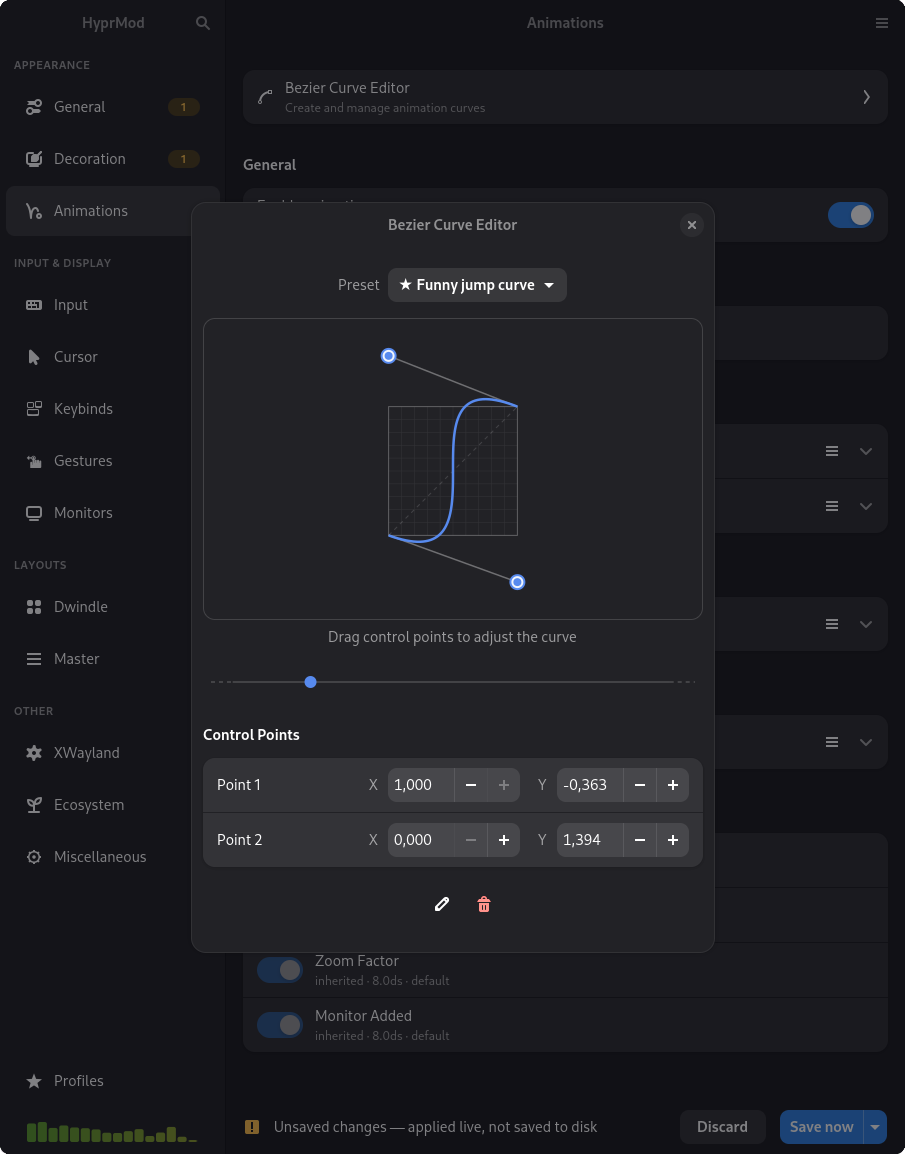
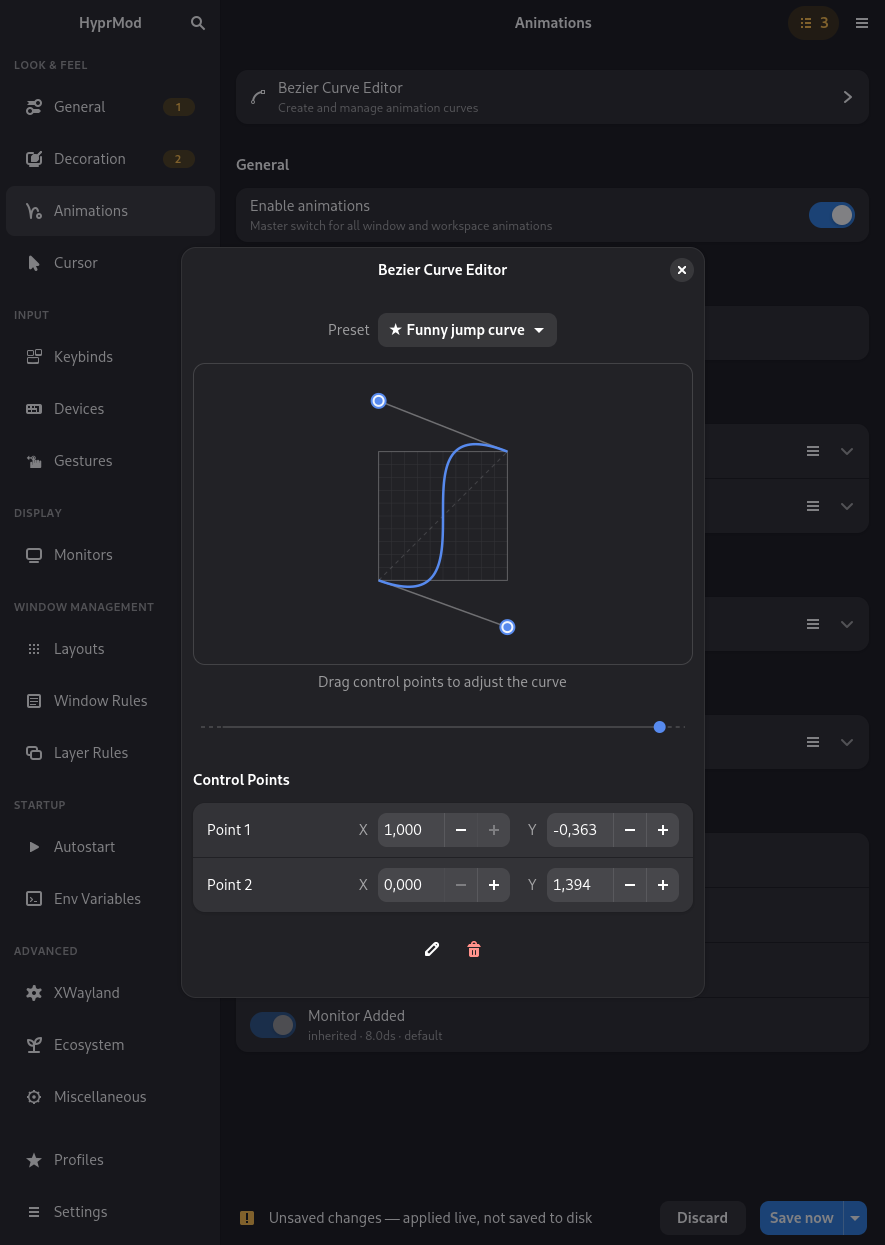
Release v0.2.0

diff --git a/CHANGELOG.md b/CHANGELOG.md
@@ -5,6 +5,30 @@ All notable changes to HyprMod will be documented in this file.
 The format is based on [Keep a Changelog](https://keepachangelog.com/en/1.1.0/),
 and this project adheres to [Semantic Versioning](https://semver.org/spec/v2.0.0.html).
 
+## [0.2.0] - 2026-05-07
+
+### Added
+
+- Window Rules page — manage `windowrule` entries with a window picker, curated action dropdown, and live preview
+- Layer Rules page — manage `layerrule` entries with curated presets and live preview
+- Autostart page — manage `exec` and `exec-once` entries with an app picker
+- Env Variables page — manage `env` entries with POSIX name validation
+- Pending Changes page — review every unsaved edit across the app in one place
+- Mouse-drag (`bindm`) keybinds with dispatcher, category, and preset support (#20)
+- Profile cards show the last-modified date alongside the option count
+
+### Changed
+
+- Sidebar reorganized by task
+- Dwindle, Master, and Scrolling merged into a single Layouts page
+- Profiles page redesigned — active profile promoted to a hero card with the saved-profiles list below
+- Saving keeps the active profile in sync automatically; use the save split button's "without updating profile" option to intentionally diverge
+
+### Fixed
+
+- Gradient border colors written without `0x` prefix on save, causing Hyprland to reject the config on reload (#21)
+- Keybind recorder captured the shifted keysym (e.g. `exclam` for `Shift+1`) instead of the unshifted one Hyprland expects when `SHIFT` is in the modifier mask (#22)
+
 ## [0.1.0] - 2026-04-21
 
 Initial release.
@@ -29,3 +53,6 @@ Initial release.
 - Version-aware schema resolution — loads the option catalog matching the running Hyprland version, falling back to the bundled schema on mismatch
 - Automatic migration of deprecated Hyprland syntax on save
 - Desktop integration: application icon, `.desktop` file, and AppStream metainfo
+
+[0.2.0]: https://github.com/BlueManCZ/hyprmod/releases/tag/v0.2.0
+[0.1.0]: https://github.com/BlueManCZ/hyprmod/releases/tag/v0.1.0

diff --git a/README.md b/README.md
@@ -40,7 +40,10 @@ Huge thanks to the creators below — without you, HyprMod would reach far fewer
 
 - Bezier curve editor with live animation preview
 - Monitor layout editor with VRR, HDR, and 10-bit detection
-- Keybind editor with interactive key capture
+- Keybind editor with interactive key capture, including mouse-drag (`bindm`) binds
+- Window rules and layer rules editors with live preview
+- Autostart (`exec` / `exec-once`) and environment variable management
+- Pending Changes page — review every unsaved edit before saving
 - Cursor theme picker with live preview
 - Config DNA — a unique visual fingerprint per profile
 - Global search across all options (Ctrl+F)
@@ -86,8 +89,6 @@ On first launch, HyprMod asks permission to add one `source` line to your `hyprl
 ## 🗺️ Roadmap
 
 **Next**
-- Window rules, layer rules, and `windowrulev2` editor
-- `exec-once` (autostart) and environment variable pages
 - Automatic backups on save, with a history browser
 - Translations (gettext)
 